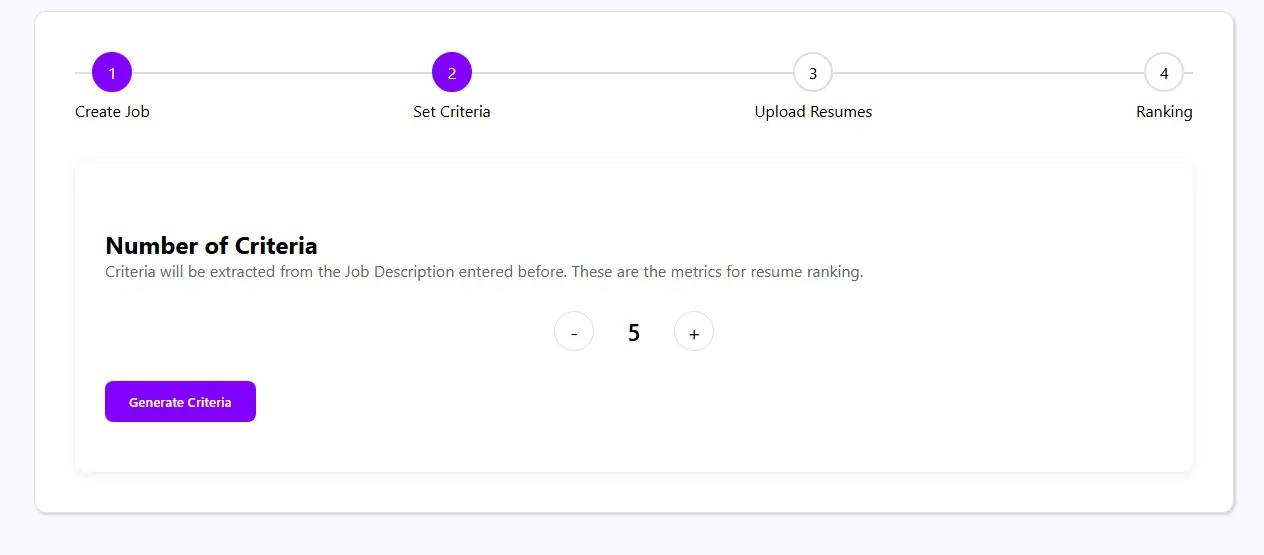
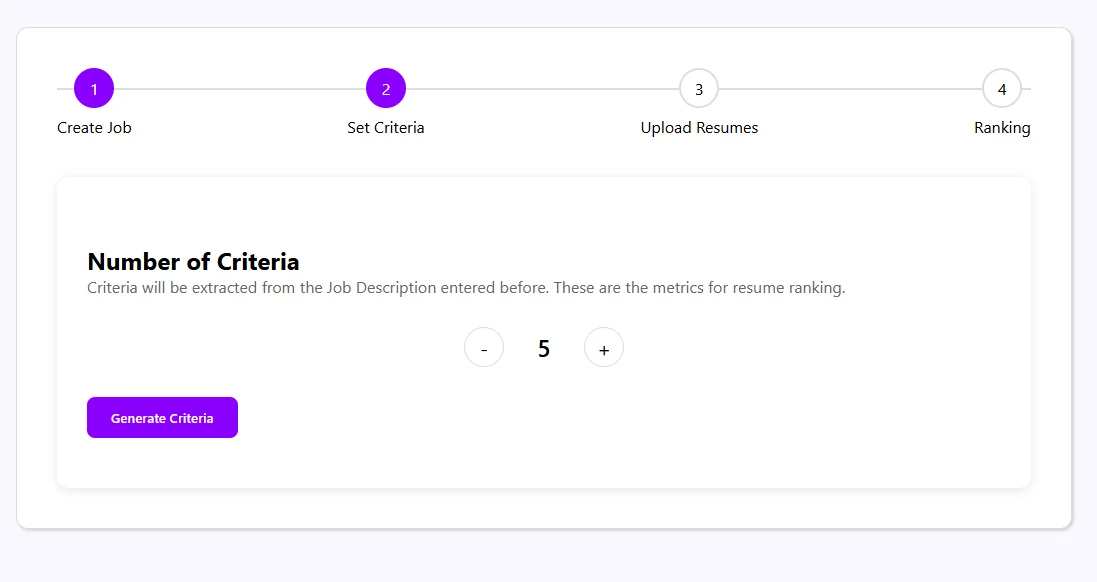
responisve issu solved

diff --git a/index.html b/index.html
@@ -13,13 +13,7 @@
     <header>
         <div class="header-container">
             <a href="index.html" class="logo">
-                <div class="logo-icon">
-                    <svg width="24" height="24" viewBox="0 0 24 24" fill="none" stroke="currentColor" stroke-width="2">
-                        <path d="M20 7H4a2 2 0 0 0-2 2v10a2 2 0 0 0 2 2h16a2 2 0 0 0 2-2V9a2 2 0 0 0-2-2z"/>
-                        <path d="M16 21V5a2 2 0 0 0-2-2h-4a2 2 0 0 0-2 2v16"/>
-                    </svg>
-                </div>
-                HR.ai
+                <img src="assets/images/logo.png" alt="hr.ai" width="100%" />
             </a>
             <nav>
                 <ul>
@@ -47,11 +41,11 @@
                     Home
                 </a>
                 <span>/</span>
-                <span>HR.ai: Rank and Score Bulk Resumes with GenAI</span>
+                <span>HR.ai: Your AI-Powered, CV Screening</span>
             </div>
     
             <h1>Your Shortcut to Hiring the Right Candidate</h1>
-            <p>No more manual screening, rank and score bulk resumes with Generative AI</p>
+            <p>Streamline your hiring process with advanced AI screening, allowing you to find the best candidates faster and more efficiently.</p>
             <a href="pages/login.html" class="get-started-btn">Get Started for Free</a>
     
             <div class="background-decoration">
@@ -99,7 +93,7 @@
                     </svg>
                 </div>
                 <h3 class="benefit-title">Save Hours on Screening</h3>
-                <p class="benefit-description">Automate screening of hundreds of resumes, saving hours of manual effort.</p>
+                <p class="benefit-description">Automate the screening of hundreds of resumes, saving hours of manual effort</p>
             </div>
             
             <div class="connector"></div>
@@ -148,7 +142,7 @@
         <div class="how-content how-content-2">
             <div class="how-text">
                 <h3>2. Set Criteria</h3>
-                <p>Let AI auto-generate key scoring criteria from your job details.</p>
+                <p>Let AI auto-generate key scoring criteria from your job details</p>
             </div>
             
             <div class="how-image">
@@ -159,8 +153,8 @@
         <!-- 3rd step -->
         <div class="how-content how-content-3">
             <div class="how-text">
-                <h3>3. Upload Resume</h3>
-                <p>Let AI auto-generate key scoring criteria from your job details.</p>
+                <h3>3. Upload Bulk CVs</h3>
+                <p>Drag and drop hundreds of resumes into the system in seconds</p>
             </div>
             
             <div class="how-image">
@@ -168,15 +162,15 @@
             </div>
         </div>
         
-        <!-- 3rd step -->
+        <!-- 4th step -->
         <div class="how-content how-content-3">
             
             <div class="how-image">
                 <img src="assets/images/4th.webp" alt="Create job demonstration" />
             </div>
             <div class="how-text">
-                <h3>4. Ranking</h3>
-                <p>Let AI auto-generate key scoring criteria from your job details.</p>
+                <h3>4. Get Results with Scores</h3>
+                <p>Instantly receive ranked results with scores for each candidate based on job fit.</p>
             </div>
         </div>
     </section>
@@ -254,7 +248,7 @@
                 <div class="use-case-content">
                     <h3 class="use-case-title">Hiring Managers</h3>
                     <p class="use-case-description">
-                        Save time by automated screening. Quickly find candidates who best match your job descriptions, improving both efficiency and quality of hire.
+                        Save time by automating screening. Quickly find candidates who best match your job descriptions.
                     </p>
                 </div>
             </div>
@@ -268,7 +262,7 @@
                 <div class="use-case-content">
                     <h3 class="use-case-title">Recruitment Agencies</h3>
                     <p class="use-case-description">
-                        Enhance client satisfaction by presenting only the most relevant candidates. Use AI to manage multiple roles and vacancies, ensuring higher placement success rates.
+                        Enhance client satisfaction by presenting only the most relevant candidates.
                     </p>
                 </div>
             </div>
@@ -282,7 +276,7 @@
                 <div class="use-case-content">
                     <h3 class="use-case-title">HR Departments</h3>
                     <p class="use-case-description">
-                        Streamline high-volume recruitment across diverse roles. With automated screening, you can support diversity, inclusion, and fast-track hiring processes.
+                        Streamline high-volume recruitment across diverse roles
                     </p>
                 </div>
             </div>
@@ -303,7 +297,7 @@
             <div class="pricing-card">
                 <h3 class="plan-name">Free</h3>
                 <div class="plan-price">$<span class="price">0</span></div>
-                <p class="plan-description">forever free for individuals and small teams</p>
+                <p class="plan-description">Forever for individuals and small teams.</p>
                 
                 <ul class="plan-features">
                     <li>
@@ -326,13 +320,13 @@
     
             <div class="pricing-card featured">
                 <h3 class="plan-name">Basic</h3>
-                <div class="plan-price">$<span class="price">20</span><span>/month</span></div>
+                <div class="plan-price">$<span class="price">49</span><span>/month</span></div>
                 
                 <ul class="plan-features">
                     <li>
                         <img src="assets/images/pricing.webp" alt="pricing icon" width="24px" />
                         </span>
-                        20 jobs per month
+                        For 20 jobs per month and 250 resumes per job
                     </li>
                     <li>
                         <img src="assets/images/pricing.webp" alt="pricing icon" width="24px" />
@@ -354,12 +348,12 @@
     
             <div class="pricing-card">
                 <h3 class="plan-name">Professional</h3>
-                <div class="plan-price">$<span class="price">100</span><span>/month</span></div>
+                <div class="plan-price">$<span class="price">199</span><span>/month</span></div>
                 
                 <ul class="plan-features">
                     <li>
                         <img src="assets/images/pricing.webp" alt="pricing icon" width="24px" />
-                        100 jobs per month
+                        For 100 jobs per month and 1,000 resumes per job
                     </li>
                     <li>
                         <img src="assets/images/pricing.webp" alt="pricing icon" width="24px" />
@@ -482,25 +476,25 @@
             <div class="faq-list">
                 <div class="faq-item">
                     <div class="faq-question" role="button" aria-expanded="false" tabindex="0">
-                        What is a Resume Screening Software?
+                        What is Resume Screening Software?
                         <svg viewBox="0 0 24 24" fill="none" stroke="currentColor" stroke-width="2">
                             <polyline points="6 9 12 15 18 9"></polyline>
                         </svg>
                     </div>
                     <div class="faq-answer">
-                        Resume screening software is an AI-powered tool that automatically analyzes, evaluates, and ranks resumes based on job requirements. It helps recruiters efficiently process large volumes of applications and identify the most qualified candidates.
+                        HR.ai is an AI-powered tool that automatically analyzes, evaluates, and ranks resumes based on job requirements.
                     </div>
                 </div>
     
                 <div class="faq-item">
                     <div class="faq-question" role="button" aria-expanded="false" tabindex="0">
-                        How Does Resume Screening Software Work?
+                        How Does HR.ai Work?
                         <svg viewBox="0 0 24 24" fill="none" stroke="currentColor" stroke-width="2">
                             <polyline points="6 9 12 15 18 9"></polyline>
                         </svg>
                     </div>
                     <div class="faq-answer">
-                        The software uses advanced AI algorithms to parse resumes, extract relevant information, and match it against job requirements. It analyzes factors like skills, experience, education, and keywords to generate a ranking score for each candidate.
+                        It uses advanced AI algorithms to parse resumes, extract relevant information, and match it against job requirements.
                     </div>
                 </div>
     
@@ -512,22 +506,9 @@
                         </svg>
                     </div>
                     <div class="faq-answer">
-                        Automated screening saves significant time, reduces bias, ensures consistent evaluation, and helps HR professionals handle large volumes of applications efficiently. It allows them to focus on interviewing and engaging with the most qualified candidates.
+                        It saves significant time, reduces bias, ensures consistent evaluation, and helps handle large volumes of applications efficiently.
                     </div>
                 </div>
-    
-                <div class="faq-item">
-                    <div class="faq-question" role="button" aria-expanded="false" tabindex="0">
-                        What is HR.ai?
-                        <svg viewBox="0 0 24 24" fill="none" stroke="currentColor" stroke-width="2">
-                            <polyline points="6 9 12 15 18 9"></polyline>
-                        </svg>
-                    </div>
-                    <div class="faq-answer">
-                        HR.ai is an AI-powered resume screening platform that helps recruiters and HR professionals efficiently process and evaluate job applications. It provides automated ranking, scoring, and insights for better hiring decisions.
-                    </div>
-                </div>
-    
                 <div class="faq-item">
                     <div class="faq-question" role="button" aria-expanded="false" tabindex="0">
                         How does HR.ai ensure unbiased results?
@@ -536,7 +517,7 @@
                         </svg>
                     </div>
                     <div class="faq-answer">
-                        HR.ai uses objective criteria based solely on skills, experience, and qualifications. The AI is trained to ignore demographic information and focuses only on job-relevant factors, promoting fair and unbiased candidate evaluation.
+                        It uses objective criteria based solely on skills and experience, minimizing human biases.
                     </div>
                 </div>
             </div>

diff --git a/pages/dashboard.html b/pages/dashboard.html
@@ -9,15 +9,7 @@
 <body>
     <div class="sidebar">
         <a href="../index.html" style="text-decoration: none;">
-        <div class="logo">
-            <div class="logo-icon">
-                <svg width="24" height="24" viewBox="0 0 24 24" fill="none" stroke="currentColor" stroke-width="2">
-                    <path d="M20 7H4a2 2 0 0 0-2 2v10a2 2 0 0 0 2 2h16a2 2 0 0 0 2-2V9a2 2 0 0 0-2-2z"/>
-                    <path d="M16 21V5a2 2 0 0 0-2-2h-4a2 2 0 0 0-2 2v16"/>
-                </svg>
-            </div>
-            <span>Hr.ai</span>
-        </div>
+            <img src="../assets/images/whitelogo" alt="png logo" width="78px"/>
     </a>
         <nav class="nav-menu">
             <a href="#" class="nav-item active">

diff --git a/assets/stylesheets/responsive.css b/assets/stylesheets/responsive.css
@@ -133,6 +133,19 @@
     .pricing-card.featured {
         transform: none;
     }
+    .header-container a img {
+        width: 80%;
+    }
+    .try-now-btn{
+        padding: 8px 20px;
+    }
+    .try-now-btn:hover{
+        background-color: var(--primary-color);
+    }
+    .breadcrumb{
+        font-size: 18px;
+        margin-bottom: 1rem;
+    }
 }
 
 
@@ -203,6 +216,9 @@
         grid-template-columns: repeat(2, 1fr);
         gap: 3rem;
     }
+    .herocontent{
+        top: 6rem;
+    }
 }
 
 @media (max-width: 640px) {
@@ -226,7 +242,11 @@
         gap: 1rem;
     }
 }
-
+@media screen and (max-width: 509px) {
+    .herocontent{
+        top: 4rem;
+    }
+}
 
 
 

diff --git a/pages/signup.html b/pages/signup.html
@@ -11,13 +11,7 @@
 <body>
     <header>
         <a href="../index.html" class="logo" style="text-decoration: none;">
-            <div class="logo-icon">
-                <svg width="24" height="24" viewBox="0 0 24 24" fill="none" stroke="currentColor" stroke-width="2">
-                    <path d="M20 7H4a2 2 0 0 0-2 2v10a2 2 0 0 0 2 2h16a2 2 0 0 0 2-2V9a2 2 0 0 0-2-2z" />
-                    <path d="M16 21V5a2 2 0 0 0-2-2h-4a2 2 0 0 0-2 2v16" />
-                </svg>
-            </div>
-            HR.ai
+           <img src="../assets/images/logo.png" alt="hr.ai" />
         </a>
         <a href="../index.html" class="try-now-btn">Contact Us</a>
     </header>

diff --git a/assets/stylesheets/style.css b/assets/stylesheets/style.css
@@ -21,7 +21,7 @@ body {
 /* Header Styles */
 header {
     background: var(--background-color);
-    padding: 1rem 2rem;
+    padding: 0rem 2rem;
     position: sticky;
     top: 0;
     z-index: 1000;
@@ -127,7 +127,8 @@ nav a.active::after {
   .herocontent {
     position: absolute;
     z-index: 1000;
-    top: 10rem;
+    /* top: 10rem; */
+    top: 8rem;
     color: white;
     font-size: 48px;
     color: #000;

diff --git a/pages/login.html b/pages/login.html
@@ -11,7 +11,7 @@
 <body>
   <div class="container">
     <div class="logo">
-      <h1>Hr.ai</h1>
+     <img src="../assets/images/logo.png" alt="hr.ai" />
     </div>
     <form id="loginForm" class="form">
       <h2>Welcome!</h2>
